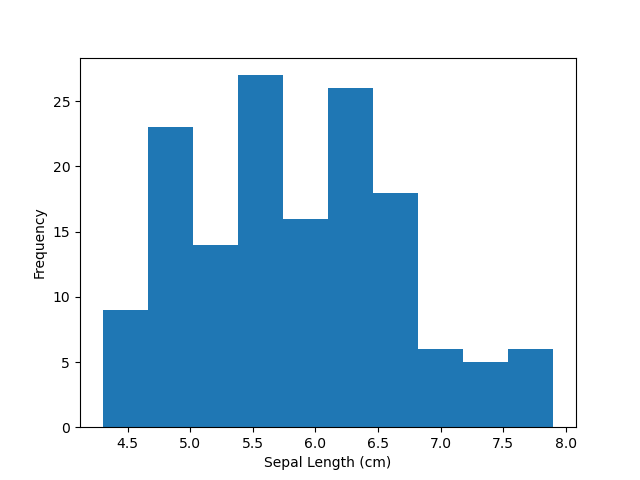
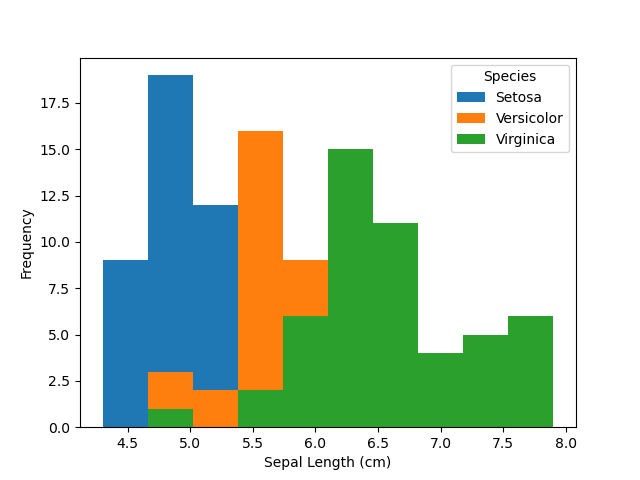
add species to histograms

diff --git a/test.py b/test.py
@@ -10,19 +10,5 @@ import numpy as np
 #Read in dataset
 df = pd.read_csv("iris.csv")
 
-#Changing column names for readability when displaying stats- https://stackoverflow.com/questions/11346283/renaming-column-names-in-pandas 
-df_upper = df.rename(columns={"sepal_length": "Sepal Length", "sepal_width": "Sepal Width", "petal_length": "Petal Length", "petal_width": "Petal Width", "species": "Species"})
-
-# Capitalising values for Species for display purposes- https://www.geeksforgeeks.org/string-capitalize-python/
-df_upper["Species"] = df_upper["Species"].str.capitalize()
-
-#Frequencies for categorical variables
-species_count = df_upper["Species"].value_counts()
-
-#Capitalizing the index for diplay purposes- applied capitalize method similar to index manipulation here: https://stackoverflow.com/questions/30576323/pandas-convert-index-values-to-lowercase
-species_count.index = species_count.index.str.capitalize()
-
-#Descriptives for scale variables 
-descriptives = df_upper.describe()
-descriptives_by_species = df_upper.groupby("Species").describe()
-print(descriptives_by_species)
+df.pivot(columns='species', values='petal_length').plot.hist()
+plt.show()

diff --git a/analysis.py b/analysis.py
@@ -61,25 +61,26 @@ petal_length = df["petal_length"].to_numpy()
 petal_width = df["petal_width"].to_numpy()
 
 #Saving histograms to PNG files- https://stackoverflow.com/questions/9622163/save-plot-to-image-file-instead-of-displaying-it
-plt.hist(sepal_length)
+#Grouping by species- https://www.geeksforgeeks.org/how-to-fill-color-by-groups-in-histogram-using-matplotlib/
+df_upper.pivot(columns='Species', values='Sepal Length').plot.hist()
 plt.xlabel("Sepal Length (cm)")
 plt.ylabel("Frequency")
 plt.savefig('sepal_length.png')
 plt.close()
 
-plt.hist(sepal_width)
+df_upper.pivot(columns='Species', values='Sepal Width').plot.hist()
 plt.xlabel("Sepal Width (cm)")
 plt.ylabel("Frequency")
 plt.savefig('sepal_width.png')
 plt.close()
 
-plt.hist(petal_length)
+df_upper.pivot(columns='Species', values='Petal Length').plot.hist()
 plt.xlabel("Petal Length (cm)")
 plt.ylabel("Frequency")
 plt.savefig('petal_length.png')
 plt.close()
 
-plt.hist(petal_width)
+df_upper.pivot(columns='Species', values='Petal Width').plot.hist()
 plt.xlabel("Petal Width (cm)")
 plt.ylabel("Frequency")
 plt.savefig('petal_width.png')
